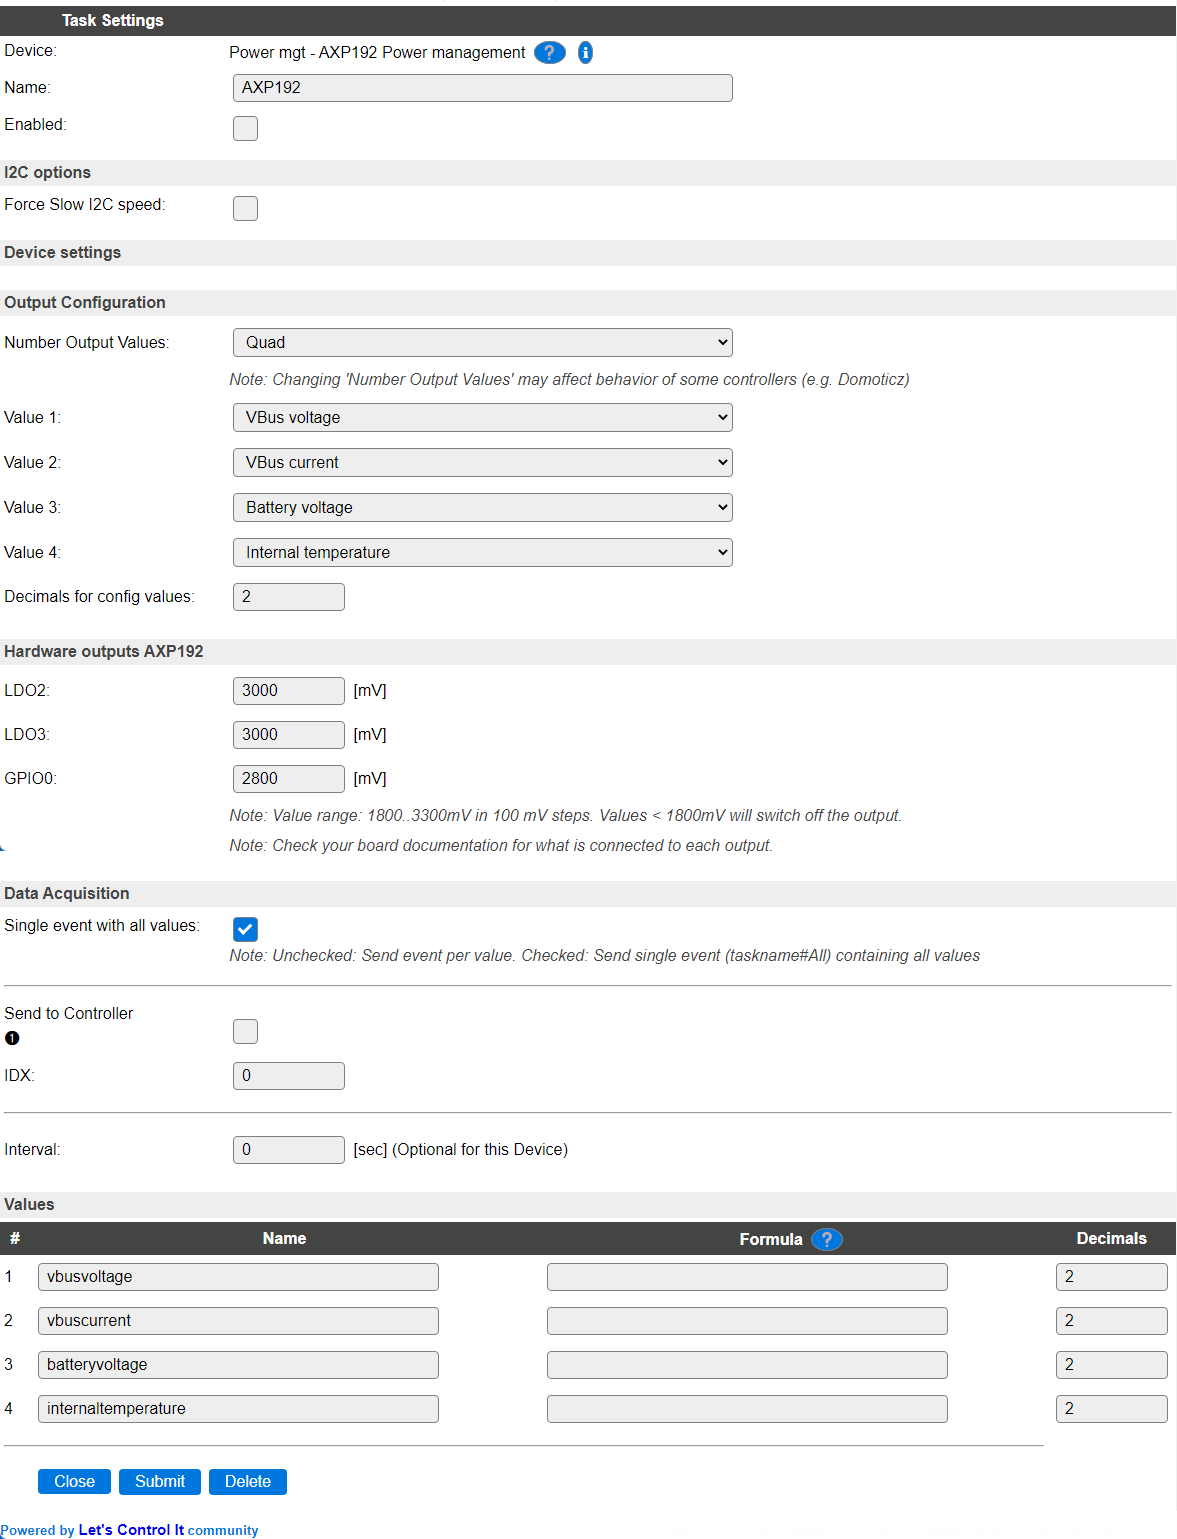
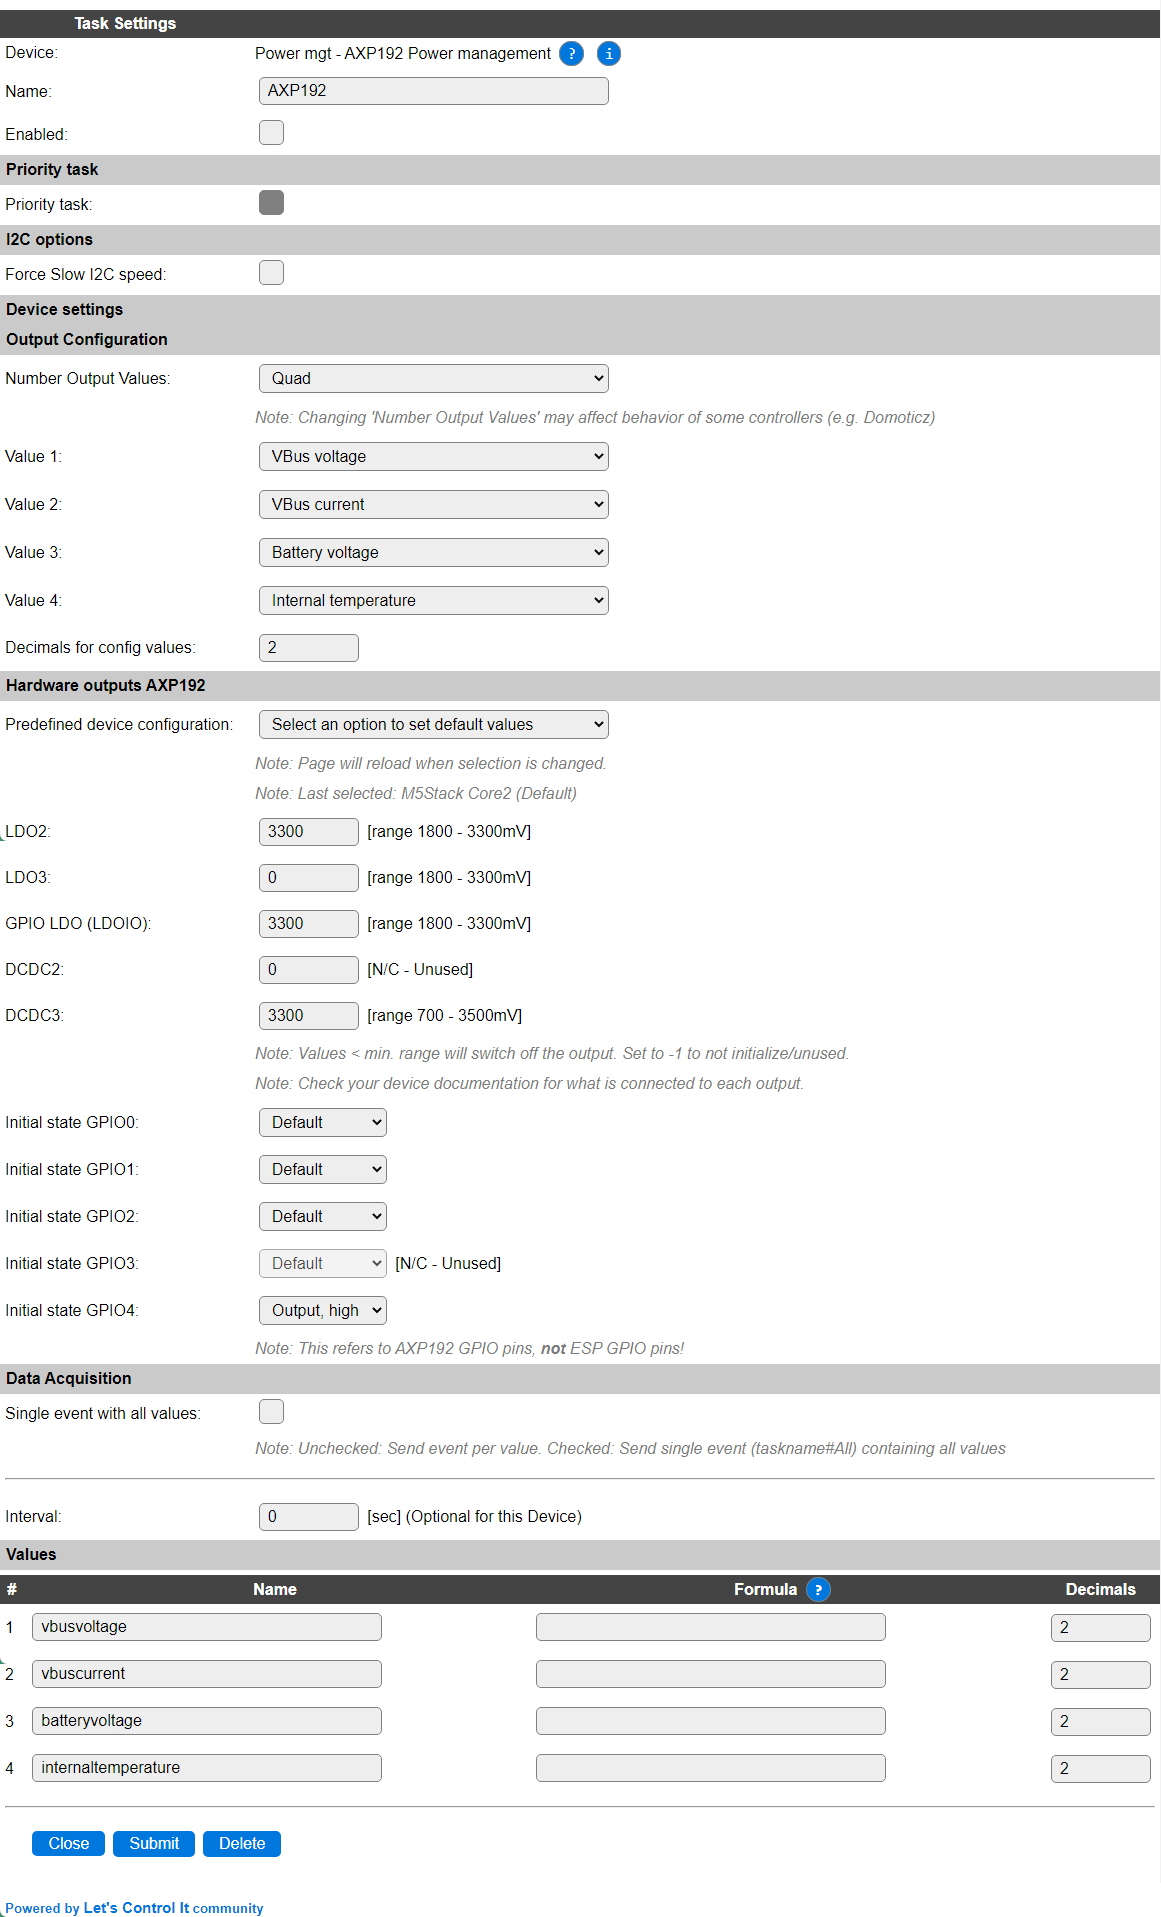
[P137] Update documentation

Changed region(s): [[0.0, 0.0, 1.0, 1.0], [0.4651, 0.5926, 0.4961, 0.6238], [0.093, 0.4678, 0.124, 0.499]]

diff --git a/docs/source/Plugin/P137.rst b/docs/source/Plugin/P137.rst
@@ -38,6 +38,8 @@ Configuration
 
 * **Enabled** The device can be disabled or enabled. When not enabled the device should not use any resources.
 
+.. include:: PriorityTask.rst
+
 I2C Options 
 ^^^^^^^^^^^^
 
@@ -85,7 +87,11 @@ Available options:
 
 * *LDO3 voltage*: The voltage at the LDO3 output.
 
-* *GPIO0 voltage*: The voltage at the GPIO0 (on AXP192, not ESP!) output.
+* *LDOIO voltage*: The voltage at the GPIO (on AXP192, not ESP!) outputs.
+
+* *DCDC2 voltage*: The voltage at the DCDC2 output.
+
+* *DCDC3 voltage*: The voltage at the DCDC3 output.
 
 .. note:: Not all options hold usable values for all boards, some may even be not connected. Check the board documentation for available values.
 
@@ -94,11 +100,37 @@ Available options:
 Hardware outputs AXP192
 ^^^^^^^^^^^^^^^^^^^^^^^
 
-The **LDO2**, **LDO3** and **GPIO0** outputs of the AXP192 can be set at a predefined value. When setting a value below 1800 mV, the output will be turned off. Above 3300 mV is not supported/allowed. Stepsize/resolution is ca. 100 mV.
+* **Predefined device configuration** The plugin provides presets for some specific devices:
+
+.. image:: P137_PredefinedDeviceOptions.png
+
+* *Select an option to set default values* This option will always be selected when opening the page.
+
+* *M5Stack StickC* Settings for the M5Stack StickC hardware.
+
+* *M5Stack Core2 (Default)* Settings for the M5Stack Core and Core2, and derived special models, hardware. This is the default predefined configuration.
+
+* *User defined* To be able to configure are available output pins the User defined option is available, f.e. when using a custom designed, or not yet supported, hardware setup.
+
+When available, new predefined devices will be added. The User defined option will stay the last option.
+
+The **LDO2**, **LDO3**, **LDOIO**, **DCDC2** and **DCDC3** outputs of the AXP192 can be set at a predefined value. When setting a value below 1800 mV, or 700 mV for the DCDC pins, the output will be turned off. Above 3300 mV is not supported/allowed, except for the DCDC3 pin that allows up to 3500 mV. Stepsize/resolution is ca. 100 mV.
 
 .. warning:: Check board documentation for what each output is actually connected to, and the allowed voltage range for that output.
 
-.. note:: AXP192 output pins ``DCDC1`` .. ``DCDC3`` are usually hardwired to specific functions of the board and/or should not be changed, and ``GPIO1`` .. ``GPIO4`` are often unused, *and* currently not implemented in the used library, so are not (yet) available for configuration.
+For the available GPIO pins (on AXP192, *not* ESP!), the initial state can be selected. The available options are:
+
+.. image:: P137_InitialStateOptions.png
+
+* *Default* Doesn't set the state of the GPIO pin.
+
+* *Output, low* Sets the state to low level (0 V).
+
+* *Output, high* Sets the state to high level.
+
+* *Input* Not supported yet.
+
+* *PWM* Not supported yet.
 
 Data Acquisition
 ^^^^^^^^^^^^^^^^
